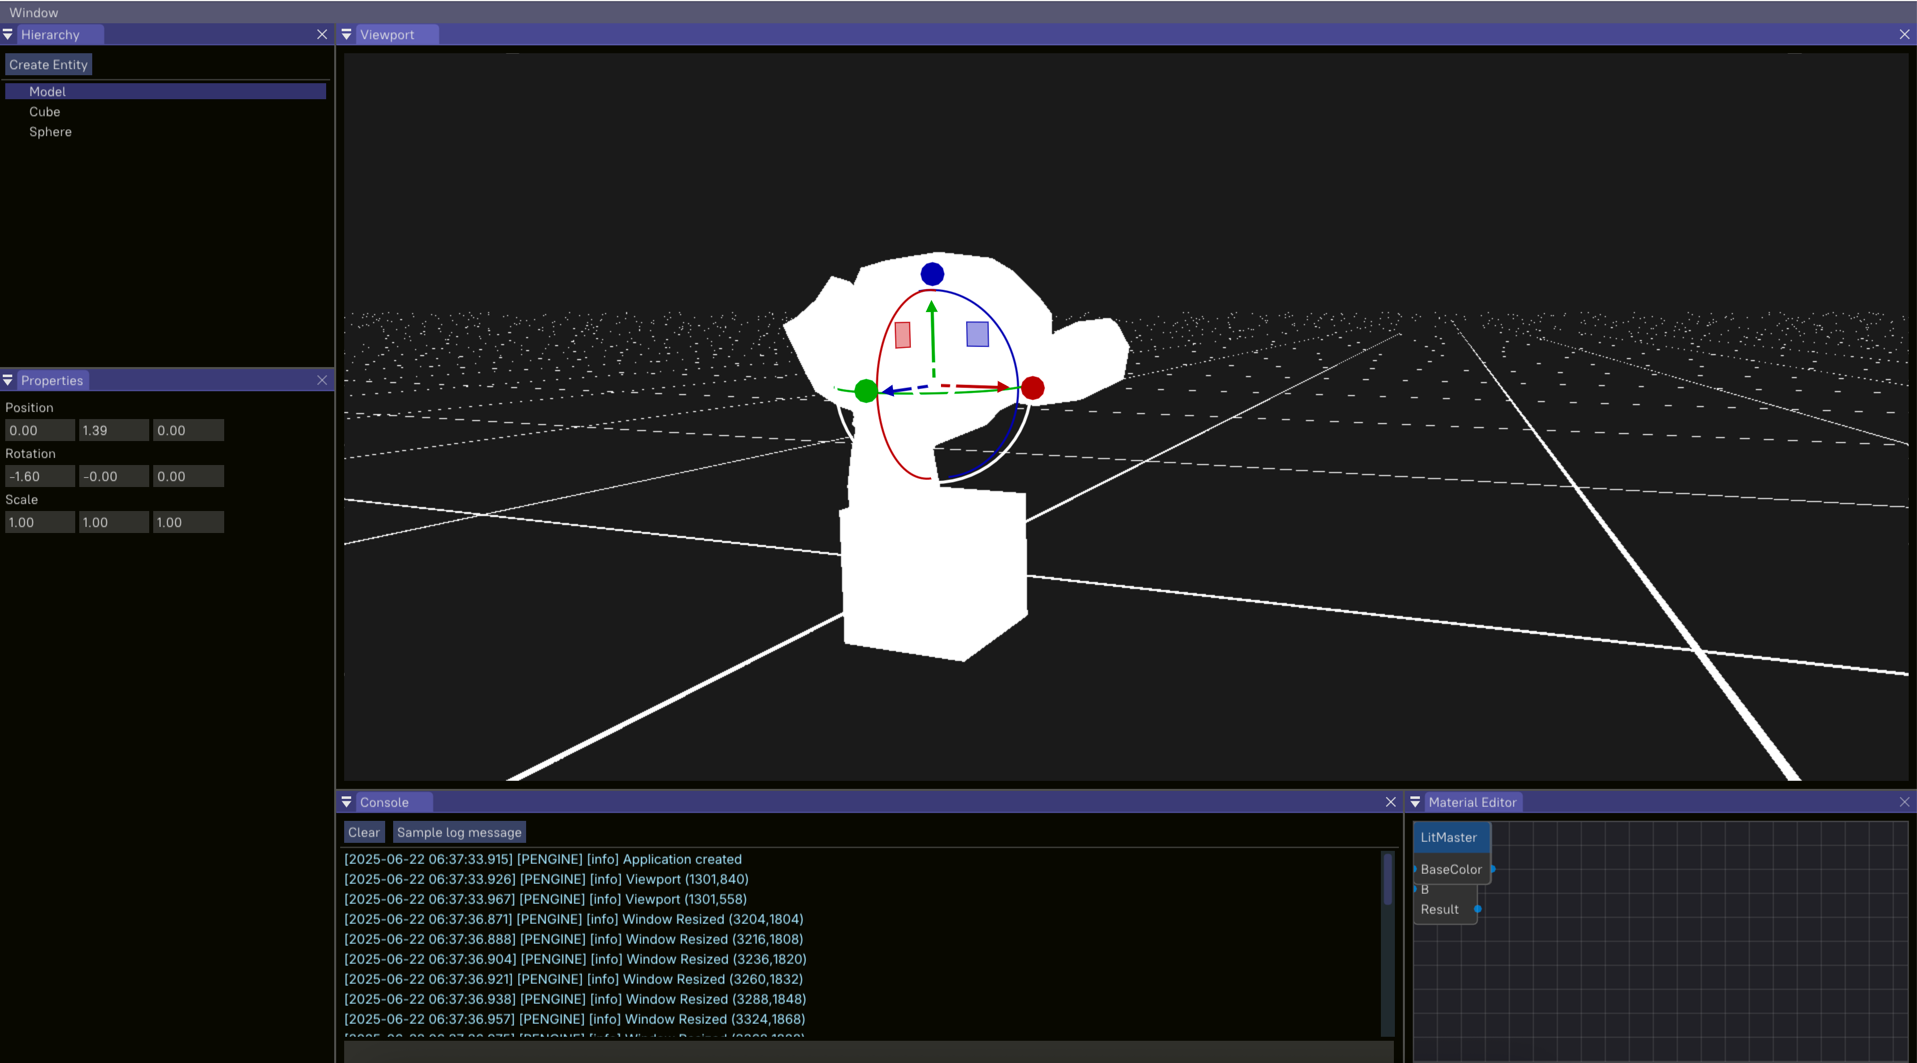
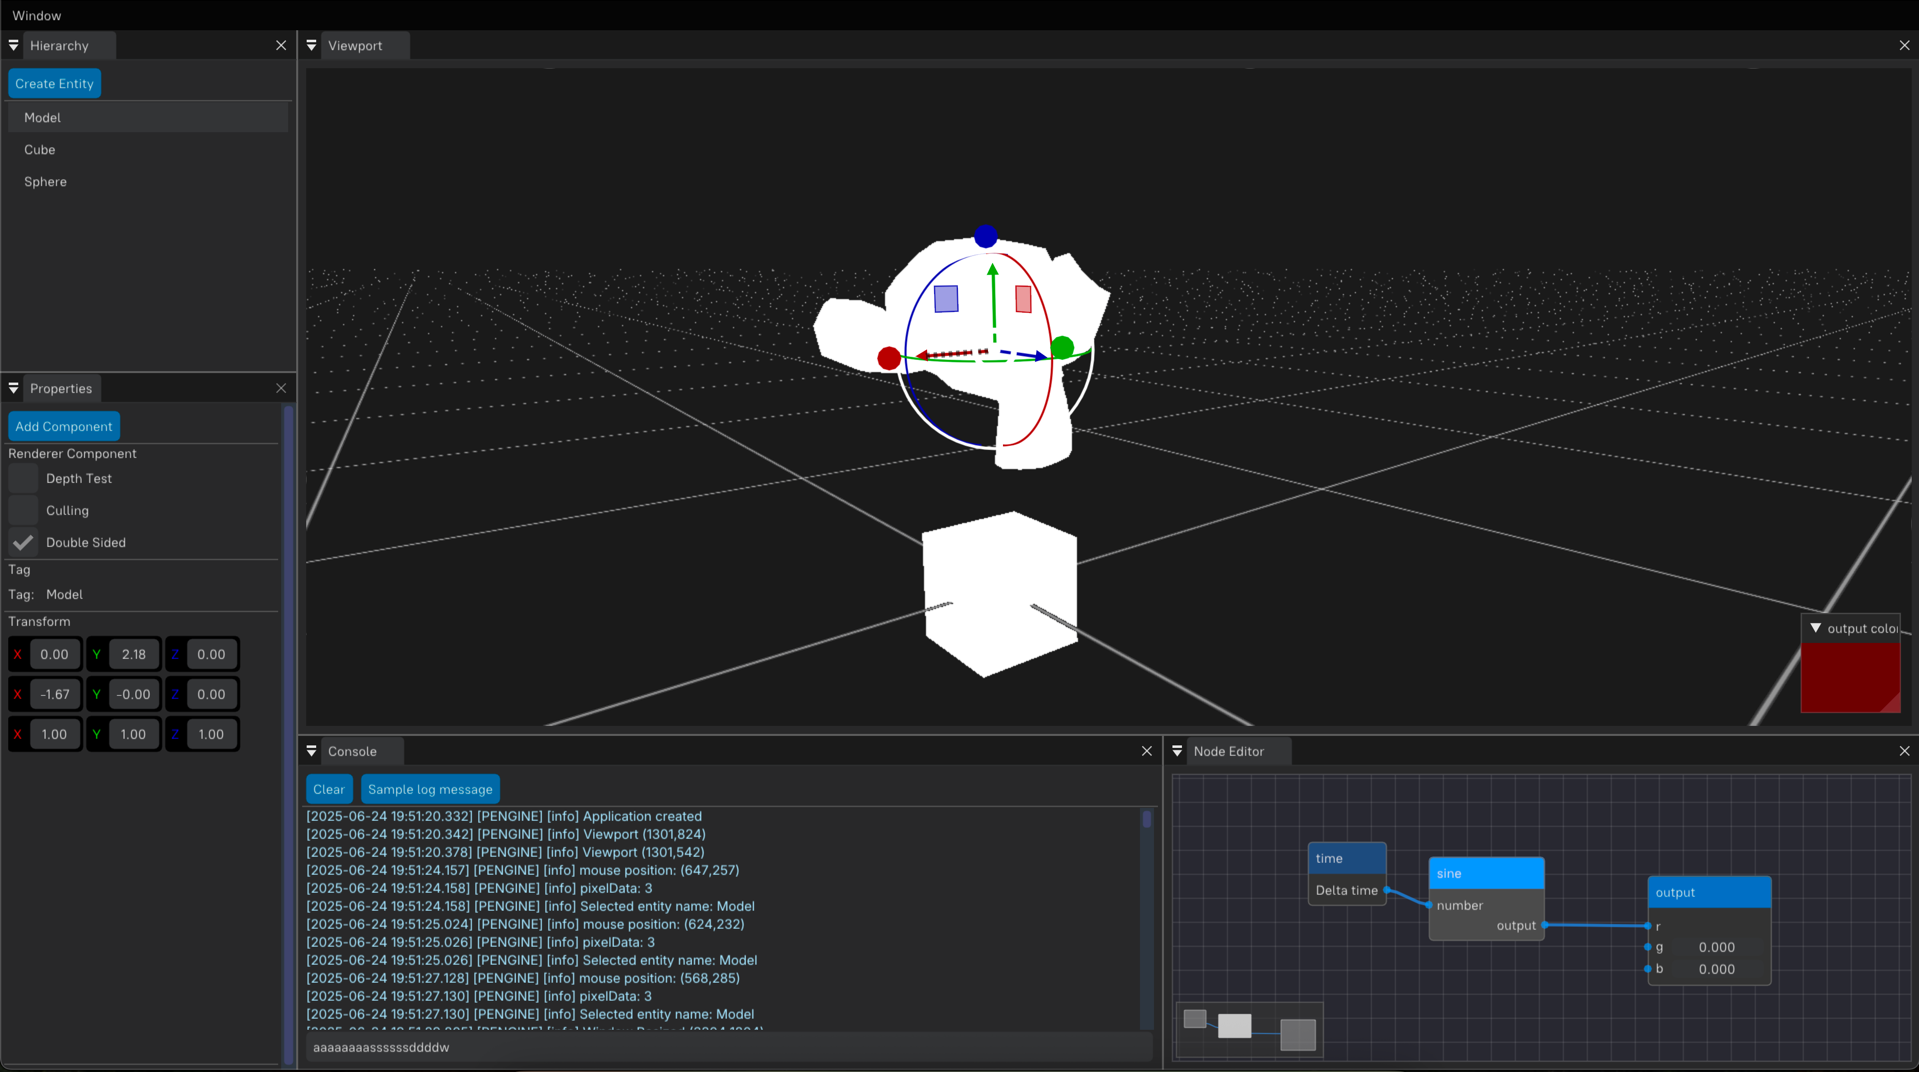
Update engine image

diff --git a/Program/SceneLayer.cpp b/Program/SceneLayer.cpp
@@ -25,7 +25,7 @@ namespace ProEngine
         sphere_entity_ = scene->CreateEntity("Sphere");
         cube_entity_ = scene->CreateEntity("Cube");
         model_entity_ = scene->CreateEntity("Model");
-        auto model = Model::Load("../ProEngine/Assets/Models/balls.glb");
+        auto model = Model::Load("../ProEngine/Assets/Models/monkey.fbx");
         rc.model = model;
         rc.mesh = MeshType::Model;
         model_entity_.AddComponent<RendererComponent>(rc);
